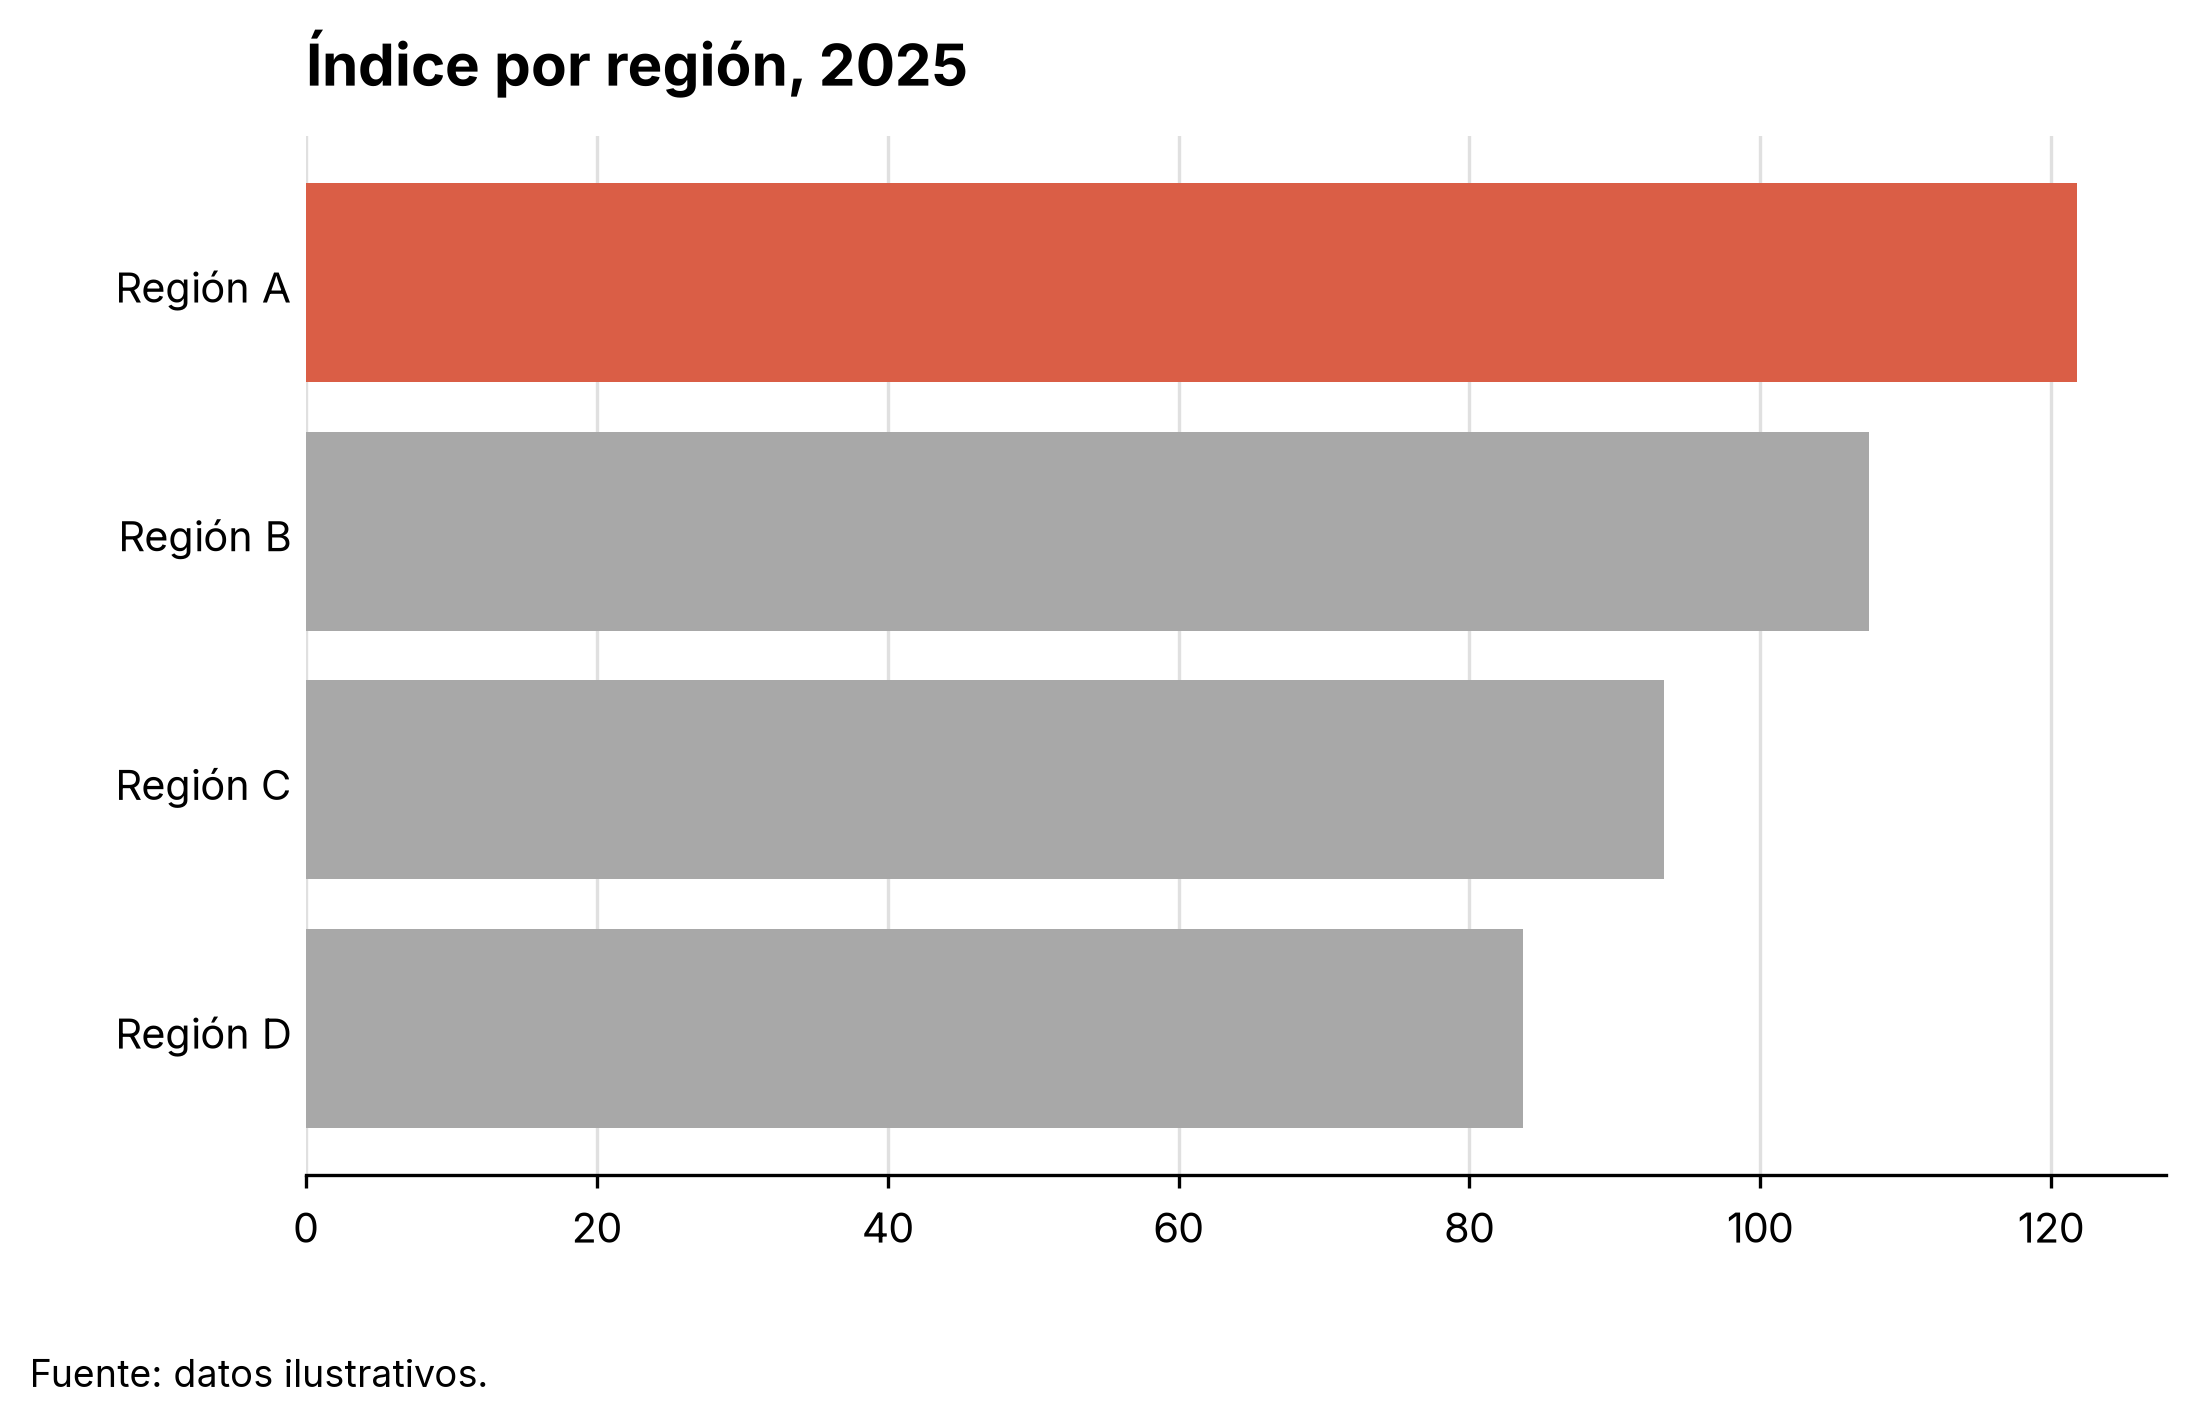
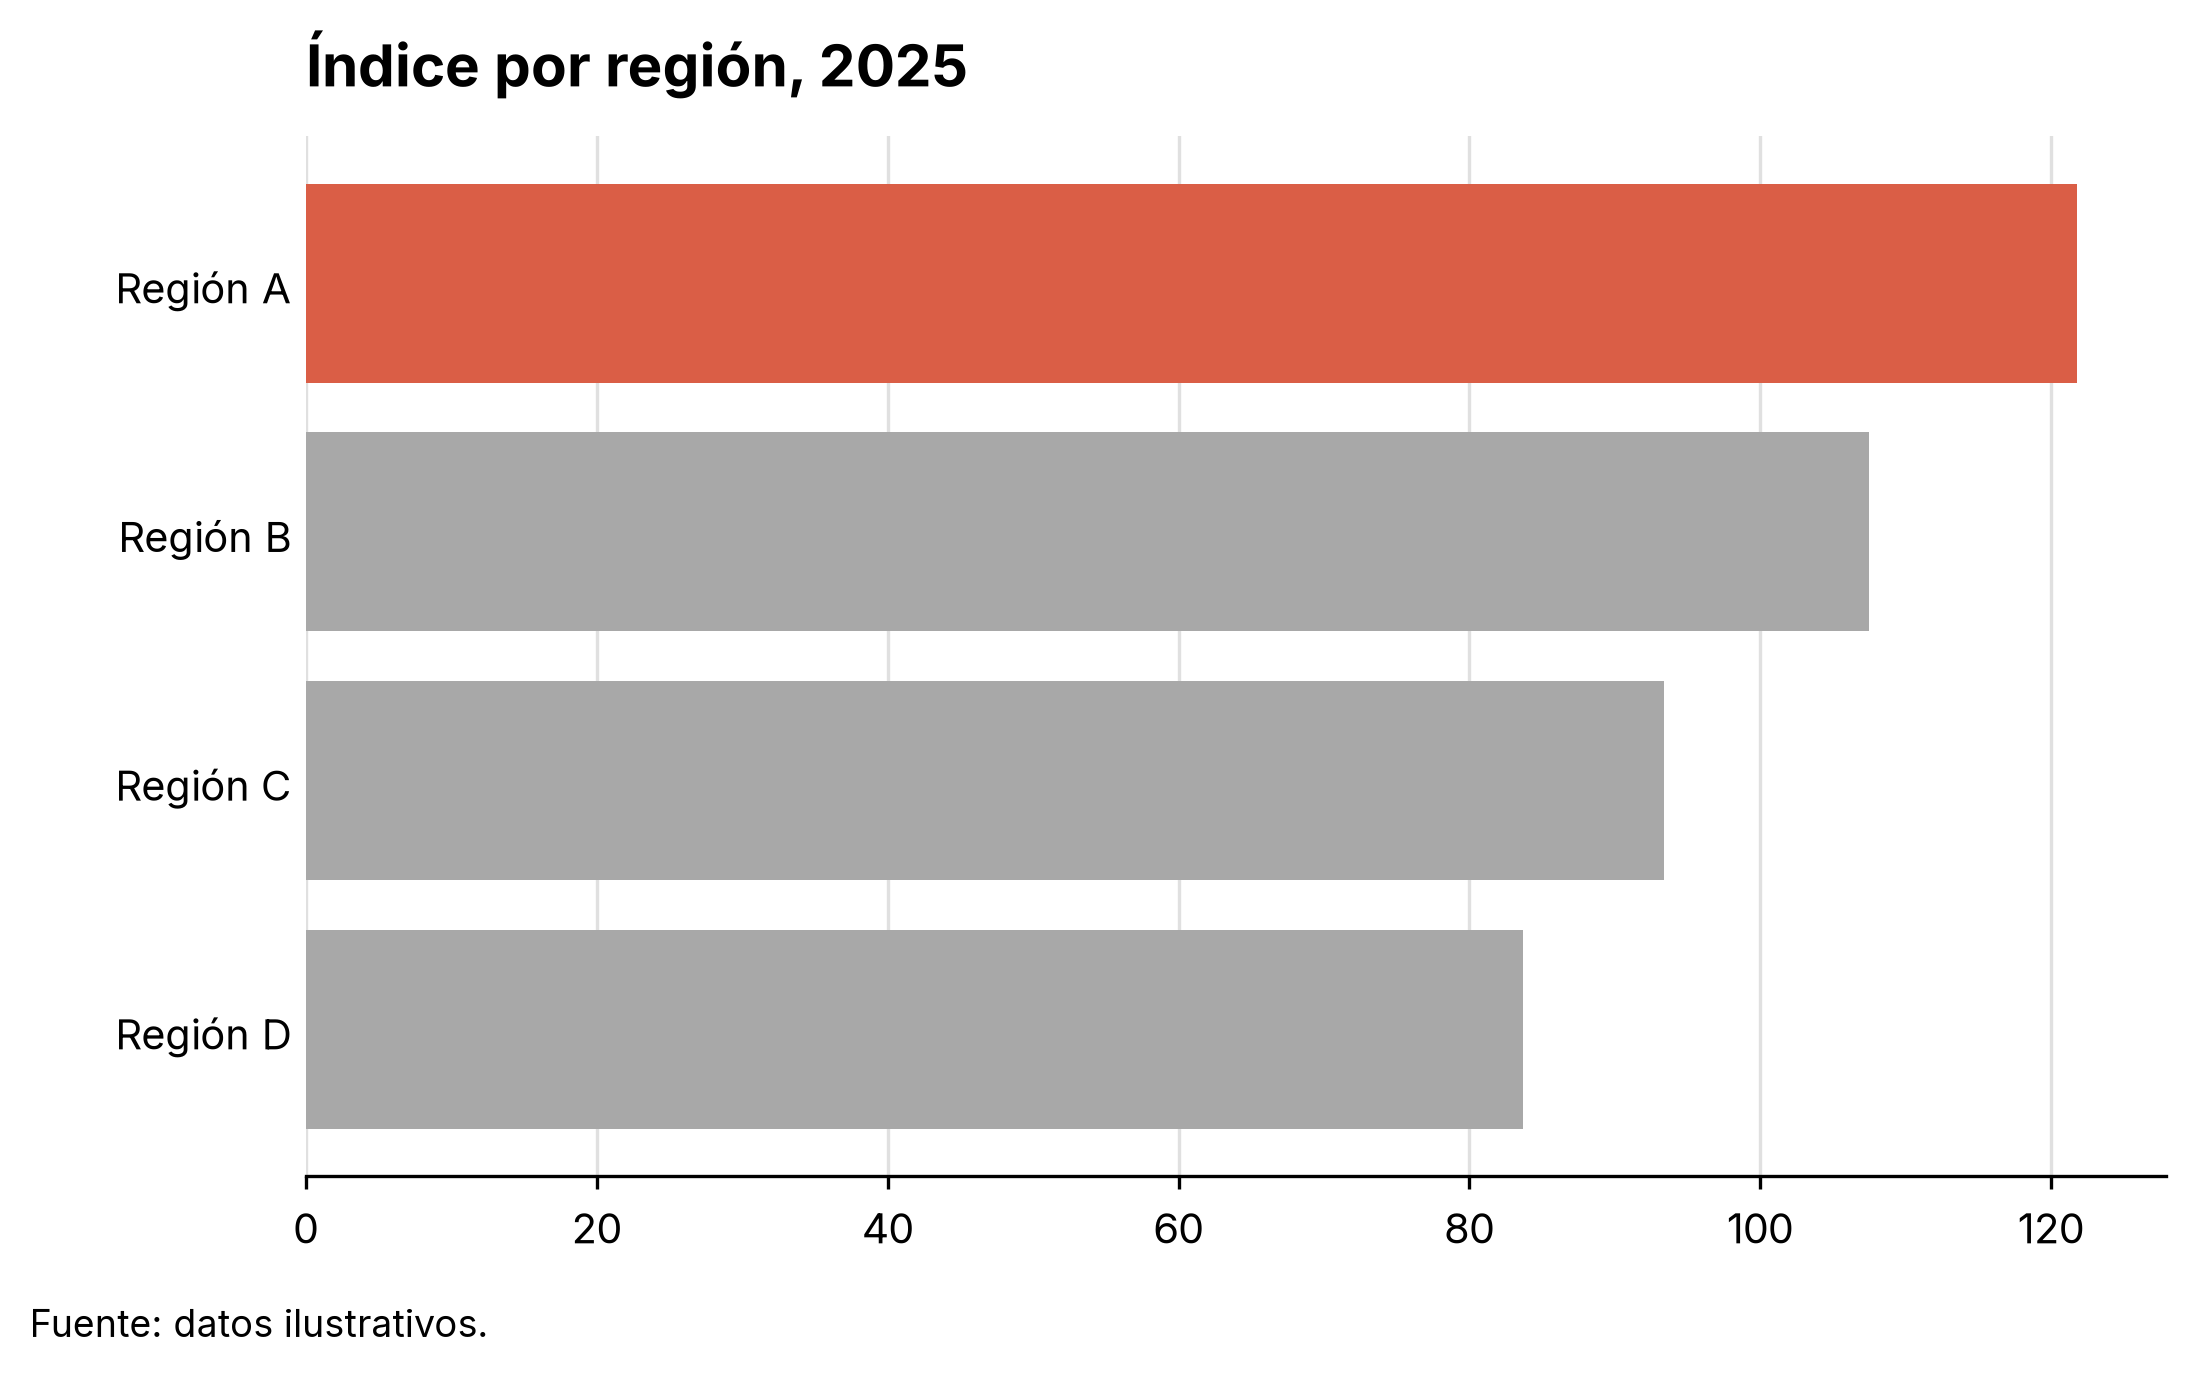
Leyendas abajo en Python, R y Stata
Python: leyenda_abajo() reemplaza leyenda_arriba(), y fuente_nota() se
ubica debajo de la leyenda.

diff --git a/python/estilo_graficas/__init__.py b/python/estilo_graficas/__init__.py
@@ -164,25 +164,29 @@ def aplicar_estilo(tamano_fuente=11, fuente=FUENTE):
     mpl.rcParams.update(parametros)
 
 
-def leyenda_arriba(ax, ncol=None):
-    """Pone la leyenda arriba del gráfico, en una fila y alineada a la izquierda.
+def leyenda_abajo(ax, ncol=None):
+    """Pone la leyenda debajo del gráfico, en una fila y alineada a la izquierda.
 
-    Llamarla después de ax.set_title(): sube el título para dejar espacio a la leyenda.
+    Llamarla después de ax.set_xlabel() (si hay título del eje x, la baja más).
     """
     handles, etiquetas = ax.get_legend_handles_labels()
-    leyenda = ax.legend(handles, etiquetas, loc="lower left", bbox_to_anchor=(0, 1.01),
-                        ncol=ncol or len(etiquetas), borderaxespad=0,
-                        handlelength=1.5, columnspacing=1.5)
-    titulo = ax.get_title(loc="left")
-    if titulo:
-        espacio = mpl.rcParams["axes.titlepad"] + 2.4 * mpl.rcParams["legend.fontsize"]
-        ax.set_title(titulo, loc="left", pad=espacio)
-    return leyenda
+    # Distancia bajo el eje, en múltiplos del tamaño de letra de la leyenda
+    separacion = 2.6 if not ax.get_xlabel() else 4.2
+    return ax.legend(handles, etiquetas, loc="upper left", bbox_to_anchor=(0, 0),
+                     ncol=ncol or len(etiquetas), borderaxespad=separacion,
+                     handlelength=1.5, columnspacing=1.5)
 
 
 def fuente_nota(fig, texto):
-    """Agrega una nota/fuente en la esquina inferior izquierda de la figura."""
-    fig.text(0.01, -0.02, texto, ha="left", va="top",
+    """Agrega una nota/fuente debajo de todo lo demás (ejes, leyenda), a la izquierda.
+
+    Llamarla al final, después de la leyenda.
+    """
+    fig.canvas.draw()
+    renderer = fig.canvas.get_renderer()
+    abajo = min(ax.get_tightbbox(renderer).y0 for ax in fig.axes)
+    y = fig.transFigure.inverted().transform((0, abajo))[1]
+    fig.text(0.01, y - 0.035, texto, ha="left", va="top",
              fontsize=mpl.rcParams["font.size"] - 2, color=TEXTO_SECUNDARIO)
 
 

diff --git a/ejemplos/ejemplo_python.py b/ejemplos/ejemplo_python.py
@@ -23,7 +23,7 @@ for grupo, d in datos.groupby("grupo"):
 ax.set_title("Índice por región, 2015-2025")
 ax.set_xticks(range(2015, 2026, 2))
 ax.set_ylabel("Índice (2015 = 100 en Región A)")
-eg.leyenda_arriba(ax)
+eg.leyenda_abajo(ax)
 eg.fuente_nota(fig, "Fuente: datos ilustrativos.")
 eg.guardar(fig, "python_lineas", SALIDA, formatos=("png",))
 

diff --git a/README.md b/README.md
@@ -79,7 +79,7 @@ Todas las gráficas usan [Inter](https://rsms.me/inter/) (licencia SIL Open Font
 
 1. Fuente Inter. Fondo blanco, sin recuadro alrededor de la gráfica.
 2. Texto y ejes en **negro**. Solo líneas de cuadrícula horizontales, en gris claro. En Python y R no se dibuja la línea del eje vertical (en Stata sí, porque un scheme no permite quitar solo esa).
-3. Título en negrita, alineado a la izquierda. La leyenda va arriba, sin título.
+3. Título en negrita, alineado a la izquierda. La leyenda va abajo, sin título.
 4. La fuente de los datos va en una nota abajo a la izquierda.
 5. **Máximo cuatro o cinco colores por gráfica.** Ámbar y naranja son parecidos: si hay que distinguir muchas series, conviene agruparlas, usar paneles o resaltar solo las importantes.
 6. Para resaltar un dato, ponga el resto en `gris` (tono 4) y el dato destacado en `coral` o `turquesa`.
@@ -117,8 +117,8 @@ fig, ax = plt.subplots()
 for grupo, d in datos.groupby("grupo"):
     ax.plot(d["anio"], d["valor"], label=grupo)
 ax.set_title("Índice por región, 2015-2025")
-eg.leyenda_arriba(ax)   # leyenda arriba, fuera del área del gráfico (después del título)
-eg.fuente_nota(fig, "Fuente: datos ilustrativos.")
+eg.leyenda_abajo(ax)    # leyenda abajo, fuera del área del gráfico
+eg.fuente_nota(fig, "Fuente: datos ilustrativos.")   # al final, queda debajo de la leyenda
 eg.guardar(fig, "mi_grafica", carpeta="salida")   # crea salida/mi_grafica.png y .pdf
 ```
 
